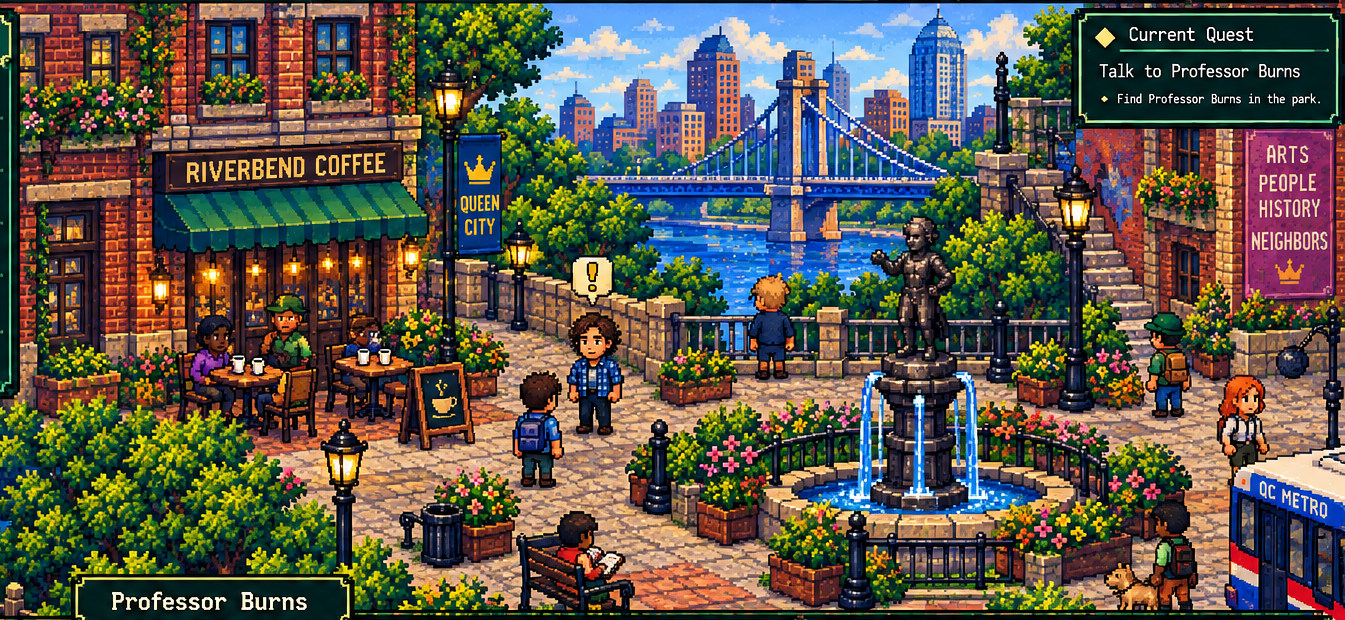
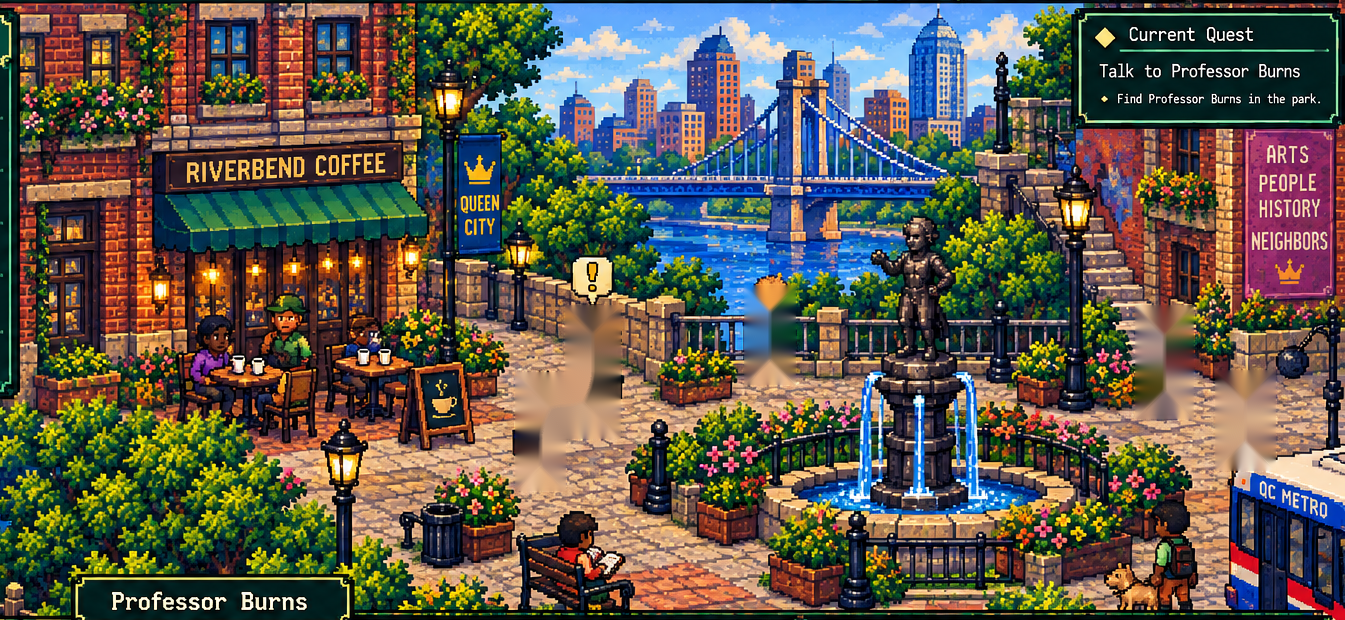
Add files via upload

Changed region(s): [[0.8431, 0.4903, 0.968, 0.7661], [0.3747, 0.4903, 0.4684, 0.7968], [0.5309, 0.4597, 0.5933, 0.6435]]

diff --git a/game.js b/game.js
@@ -1,55 +1,46 @@
 (()=>{
-const world=document.querySelector('#world'),player=document.querySelector('#player'),avatar=document.querySelector('#avatarCanvas'),marker=document.querySelector('#marker'),viewport=document.querySelector('#viewport'),dialogue=document.querySelector('#dialogue'),line=document.querySelector('#line'),choices=document.querySelector('#choices');
+const world=document.querySelector('#world'), entitiesEl=document.querySelector('#entities'), player=document.querySelector('#player'), avatar=document.querySelector('#avatarCanvas'), marker=document.querySelector('#marker'), viewport=document.querySelector('#viewport'), dialogue=document.querySelector('#dialogue'), line=document.querySelector('#line'), choices=document.querySelector('#choices');
 const ctx=avatar.getContext('2d'); ctx.imageSmoothingEnabled=false;
-const W=1345,H=620,CELL=8,COLS=Math.ceil(W/CELL),ROWS=Math.ceil(H/CELL);
+const W=1345,H=620,CELL=8,COLS=Math.ceil(W/CELL),ROWS=Math.ceil(H/CELL),FRAME_W=64,FRAME_H=88;
 let pos={x:548,y:486},raf=null,path=[],pending=null,frame=0,lastStep=0,dir='down',debug=false;
-let look=JSON.parse(localStorage.getItem('qc-avatar')||'null')||{skin:1,hair:1,hairColor:0,shirt:0};
 const spriteSheet=new Image(); spriteSheet.src='assets/player-sprites.png';
 const collisionImage=new Image(); collisionImage.src='assets/collision-mask.png';
 const collisionCanvas=document.createElement('canvas'); collisionCanvas.width=W; collisionCanvas.height=H; const collisionCtx=collisionCanvas.getContext('2d',{willReadFrequently:true});
-let collisionReady=false;
-collisionImage.onload=()=>{collisionCtx.drawImage(collisionImage,0,0,W,H);collisionReady=true;drawDebug()};
-spriteSheet.onload=()=>drawAvatar(false);
-// Dynamic NPC collision: feet positions in the flattened Queen City scene.
-const actors=[[590,405,25],[770,360,25],[1165,390,25],[1244,438,25],[1174,552,28],[579,555,34],[535,455,25],[365,392,24],[285,365,23],[220,365,23],[914,285,35]];
+let collisionReady=false; collisionImage.onload=()=>{collisionCtx.drawImage(collisionImage,0,0,W,H);collisionReady=true;drawDebug()}; spriteSheet.onload=()=>drawAvatar(false);
+// Actual world entities. x/y are FOOT positions, which drive collision and depth sorting.
+const npcDefs=[
+ {id:'burns',name:'Professor Burns',x:592,y:432,r:23,sheet:'assets/npc-burns.png',dir:'down',interactive:true},
+ {id:'maya',name:'Maya',x:770,y:382,r:22,sheet:'assets/npc-maya.png',dir:'down'},
+ {id:'eli',name:'Eli',x:1165,y:418,r:22,sheet:'assets/npc-eli.png',dir:'left'},
+ {id:'nora',name:'Nora',x:1245,y:468,r:22,sheet:'assets/npc-nora.png',dir:'down'},
+ {id:'sam',name:'Sam',x:540,y:430,r:22,sheet:'assets/npc-sam.png',dir:'right'}
+];
+const npcs=[];
+function createNPC(d){const el=document.createElement('button');el.className='entity npc';el.dataset.id=d.id;el.setAttribute('aria-label',d.name);const cv=document.createElement('canvas');cv.width=FRAME_W;cv.height=FRAME_H;el.appendChild(cv);entitiesEl.appendChild(el);const im=new Image();im.src=d.sheet;const n={...d,el,cv,ctx:cv.getContext('2d'),img:im,frame:0};n.ctx.imageSmoothingEnabled=false;im.onload=()=>drawNPC(n);el.addEventListener('pointerdown',e=>{e.stopPropagation();approachNPC(n)});npcs.push(n);positionEntity(n);return n}
+function drawFrame(c,im,dir,frame=0){if(!im.complete||!im.naturalWidth)return;const row={down:0,left:1,right:2,up:3}[dir]??0;c.clearRect(0,0,FRAME_W,FRAME_H);c.drawImage(im,frame*FRAME_W,row*FRAME_H,FRAME_W,FRAME_H,0,0,FRAME_W,FRAME_H)}
+function drawNPC(n){drawFrame(n.ctx,n.img,n.dir,n.frame)}
+function positionEntity(n){n.el.style.left=n.x+'px';n.el.style.top=n.y+'px';n.el.style.zIndex=String(100+Math.round(n.y));}
+npcDefs.forEach(createNPC);
 function maskAllows(x,y){if(!collisionReady)return false;if(x<0||y<0||x>=W||y>=H)return false;return collisionCtx.getImageData(Math.round(x),Math.round(y),1,1).data[0]>127}
-function isWalkable(x,y){if(!maskAllows(x,y))return false;for(const [ax,ay,r] of actors)if(Math.hypot(x-ax,y-ay)<r)return false;return true}
-function nearestWalkable(x,y){if(isWalkable(x,y))return{x,y};for(let r=8;r<260;r+=8){for(let a=0;a<Math.PI*2;a+=Math.PI/20){const q={x:x+Math.cos(a)*r,y:y+Math.sin(a)*r};if(isWalkable(q.x,q.y))return q}}return {...pos}}
+function occupiedByNPC(x,y,ignoreId=null){for(const n of npcs){if(n.id===ignoreId)continue;if(Math.hypot(x-n.x,y-n.y)<n.r+13)return true}return false}
+function isWalkable(x,y){return maskAllows(x,y)&&!occupiedByNPC(x,y)}
+function nearestWalkable(x,y){if(isWalkable(x,y))return{x,y};for(let r=8;r<280;r+=8)for(let a=0;a<Math.PI*2;a+=Math.PI/24){const q={x:x+Math.cos(a)*r,y:y+Math.sin(a)*r};if(isWalkable(q.x,q.y))return q}return {...pos}}
 function key(c,r){return c+','+r} function center(c,r){return{x:c*CELL+CELL/2,y:r*CELL+CELL/2}}
-function astar(start,end){
- const sc=Math.floor(start.x/CELL),sr=Math.floor(start.y/CELL),ec=Math.floor(end.x/CELL),er=Math.floor(end.y/CELL),open=[{c:sc,r:sr,g:0,f:0}],came=new Map(),g=new Map([[key(sc,sr),0]]),closed=new Set();
- const dirs=[[1,0],[-1,0],[0,1],[0,-1],[1,1],[1,-1],[-1,1],[-1,-1]];
- while(open.length){open.sort((a,b)=>a.f-b.f);const cur=open.shift(),ck=key(cur.c,cur.r);if(closed.has(ck))continue;closed.add(ck);if(cur.c===ec&&cur.r===er){let arr=[end],k=ck;while(came.has(k)){const [c,r]=k.split(',').map(Number);arr.push(center(c,r));k=came.get(k)}arr.reverse();arr.shift();return arr}
-  for(const [dc,dr] of dirs){const c=cur.c+dc,r=cur.r+dr;if(c<0||r<0||c>=COLS||r>=ROWS)continue;const p=center(c,r);if(!isWalkable(p.x,p.y))continue;
-   // No diagonal corner cutting through fences/planters.
-   if(dc&&dr){const p1=center(cur.c+dc,cur.r),p2=center(cur.c,cur.r+dr);if(!isWalkable(p1.x,p1.y)||!isWalkable(p2.x,p2.y))continue}
-   const nk=key(c,r),ng=cur.g+(dc&&dr?1.414:1);if(ng<(g.get(nk)??1e9)){g.set(nk,ng);came.set(nk,ck);open.push({c,r,g:ng,f:ng+Math.hypot(ec-c,er-r)})}
-  }
- }
- return[];
-}
-function moveTo(x,y,action){const end=nearestWalkable(Math.max(22,Math.min(W-22,x)),Math.max(315,Math.min(H-14,y)));path=astar(pos,end);pending=action;if(!path.length&&Math.hypot(end.x-pos.x)>8){pending=null;return}marker.style.left=end.x+'px';marker.style.top=end.y+'px';marker.style.display='block';player.classList.add('walking');if(!raf)raf=requestAnimationFrame(tick)}
-function tick(ts){if(!path.length){player.classList.remove('walking');marker.style.display='none';drawAvatar(false);const a=pending;pending=null;if(a)interact(a);raf=null;return}const t=path[0],dx=t.x-pos.x,dy=t.y-pos.y,d=Math.hypot(dx,dy);if(Math.abs(dx)>Math.abs(dy))dir=dx>0?'right':'left';else dir=dy>0?'down':'up';if(d<3){pos={x:t.x,y:t.y};path.shift()}else{const s=2.35;pos.x+=dx/d*s;pos.y+=dy/d*s}if(ts-lastStep>135){frame=(frame+1)%4;lastStep=ts;drawAvatar(true)}render();raf=requestAnimationFrame(tick)}
-function drawAvatar(walking=false){
- ctx.clearRect(0,0,64,80);
- if(!spriteSheet.complete||!spriteSheet.naturalWidth)return;
- const row={down:0,left:1,right:2,up:3}[dir]??0;
- const col=walking?(frame%5):0;
- ctx.drawImage(spriteSheet,col*64,row*80,64,80,0,0,64,80);
-}
-function render(){player.style.left=pos.x+'px';player.style.top=pos.y+'px'}
+function astar(start,end){const sc=Math.floor(start.x/CELL),sr=Math.floor(start.y/CELL),ec=Math.floor(end.x/CELL),er=Math.floor(end.y/CELL),open=[{c:sc,r:sr,g:0,f:0}],came=new Map(),g=new Map([[key(sc,sr),0]]),closed=new Set(),dirs=[[1,0],[-1,0],[0,1],[0,-1],[1,1],[1,-1],[-1,1],[-1,-1]];while(open.length){open.sort((a,b)=>a.f-b.f);const cur=open.shift(),ck=key(cur.c,cur.r);if(closed.has(ck))continue;closed.add(ck);if(cur.c===ec&&cur.r===er){let arr=[end],k=ck;while(came.has(k)){const [c,r]=k.split(',').map(Number);arr.push(center(c,r));k=came.get(k)}arr.reverse();arr.shift();return arr}for(const [dc,dr] of dirs){const c=cur.c+dc,r=cur.r+dr;if(c<0||r<0||c>=COLS||r>=ROWS)continue;const p=center(c,r);if(!isWalkable(p.x,p.y))continue;if(dc&&dr){const p1=center(cur.c+dc,cur.r),p2=center(cur.c,cur.r+dr);if(!isWalkable(p1.x,p1.y)||!isWalkable(p2.x,p2.y))continue}const nk=key(c,r),ng=cur.g+(dc&&dr?1.414:1);if(ng<(g.get(nk)??1e9)){g.set(nk,ng);came.set(nk,ck);open.push({c,r,g:ng,f:ng+Math.hypot(ec-c,er-r)})}}}return[]}
+function moveTo(x,y,action){const end=nearestWalkable(Math.max(22,Math.min(W-22,x)),Math.max(315,Math.min(H-14,y)));path=astar(pos,end);pending=action;if(!path.length&&Math.hypot(end.x-pos.x)>8){pending=null;return}marker.style.left=end.x+'px';marker.style.top=end.y+'px';marker.style.display='block';if(!raf)raf=requestAnimationFrame(tick)}
+function approachNPC(n){const spots=[{x:n.x-42,y:n.y},{x:n.x+42,y:n.y},{x:n.x,y:n.y+38},{x:n.x,y:n.y-38}].filter(q=>isWalkable(q.x,q.y)).sort((a,b)=>Math.hypot(a.x-pos.x,a.y-pos.y)-Math.hypot(b.x-pos.x,b.y-pos.y));if(!spots.length)return;moveTo(spots[0].x,spots[0].y,{type:'npc',id:n.id})}
+function tick(ts){if(!path.length){marker.style.display='none';drawAvatar(false);const a=pending;pending=null;if(a)interact(a);raf=null;return}const t=path[0],dx=t.x-pos.x,dy=t.y-pos.y,d=Math.hypot(dx,dy);if(Math.abs(dx)>Math.abs(dy))dir=dx>0?'right':'left';else dir=dy>0?'down':'up';if(d<3){pos={x:t.x,y:t.y};path.shift()}else{const s=2.35;pos.x+=dx/d*s;pos.y+=dy/d*s}if(ts-lastStep>130){frame=(frame+1)%5;lastStep=ts;drawAvatar(true)}render();raf=requestAnimationFrame(tick)}
+function drawAvatar(walking=false){drawFrame(ctx,spriteSheet,dir,walking?frame%5:0)}
+function render(){player.style.left=pos.x+'px';player.style.top=pos.y+'px';player.style.zIndex=String(100+Math.round(pos.y));}
 function coords(e){const r=world.getBoundingClientRect();return{x:(e.clientX-r.left)*W/r.width,y:(e.clientY-r.top)*H/r.height}}
-viewport.addEventListener('pointerdown',e=>{if(e.target.closest('nav,#quest,#dialogue,#panel,#debugCanvas'))return;const h=e.target.closest('.hotspot');if(h){const a=h.dataset.action;if(a==='burns')moveTo(548,450,a);else if(a==='coffee')moveTo(470,400,a);return}const p=coords(e);moveTo(p.x,p.y,null)});
+viewport.addEventListener('pointerdown',e=>{if(e.target.closest('nav,#quest,#dialogue,#panel,#debugCanvas,.npc'))return;const h=e.target.closest('.hotspot');if(h?.dataset.action==='coffee'){moveTo(470,400,{type:'coffee'});return}const p=coords(e);moveTo(p.x,p.y,null)});
 function showBurns(text){dialogue.classList.remove('hidden');document.body.classList.add('dialogue-open');line.textContent=text;choices.innerHTML='';QC_DATA.burns.choices.forEach(c=>{const b=document.createElement('button');b.textContent='▶ '+c.t;b.addEventListener('click',()=>{if(c.close)closeDialog();else{line.textContent=c.r;choices.innerHTML='';const back=document.createElement('button');back.textContent='◀ Ask something else';back.addEventListener('click',()=>showBurns(QC_DATA.burns.intro));choices.append(back)}});choices.append(b)})}
-function interact(a){if(a==='burns')showBurns(QC_DATA.burns.intro);if(a==='coffee')openPanel('Riverbend Coffee','<p>The smell of coffee drifts through the open door. A handwritten notice reads:</p><p><b>NEW HOURS BEGIN THIS WEEK</b></p><p>Several people inside seem to be talking about the change. This will become the first full sociology investigation.</p>')}
+function interact(a){if(a?.type==='npc'){const n=npcs.find(x=>x.id===a.id);if(!n)return;if(n.id==='burns')showBurns(QC_DATA.burns.intro);else openPanel(n.name,`<p>${n.name} is a Queen City resident. Their full dialogue and schedule can now be changed independently of the background artwork.</p>`)}if(a?.type==='coffee')openPanel('Riverbend Coffee','<p>The smell of coffee drifts through the open door. A handwritten notice reads:</p><p><b>NEW HOURS BEGIN THIS WEEK</b></p><p>Several people inside seem to be talking about the change. This will become the first full sociology investigation.</p>')}
 function closeDialog(){dialogue.classList.add('hidden');document.body.classList.remove('dialogue-open')} document.querySelector('#closeDialog').addEventListener('click',closeDialog);
-function avatarPanel(){return `<p><b>Your playable student</b></p><p>This build uses a real hand-drawn sprite sheet rather than JavaScript rectangles. The avatar now matches the scale and detail of Queen City's NPCs.</p><p><b>Customization:</b> the full layered character creator is the next asset pass; this build locks the approved blue-shirt/backpack student so movement and collision can be validated first.</p><button id="debugToggle" class="panelAction">${debug?'Hide':'Show'} collision debug overlay</button>`}
-function openPanel(title,html){document.querySelector('#panelTitle').textContent=title;document.querySelector('#panelBody').innerHTML=html;document.querySelector('#panel').classList.remove('hidden');if(title==='Character'){document.querySelector('#debugToggle').addEventListener('click',()=>{debug=!debug;drawDebug();document.querySelector('#debugToggle').textContent=(debug?'Hide':'Show')+' collision debug overlay'})}}
-document.querySelector('#closePanel').addEventListener('click',()=>document.querySelector('#panel').classList.add('hidden'));
-document.querySelectorAll('nav button').forEach(b=>b.addEventListener('click',()=>{const k=b.dataset.menu;if(k==='character')openPanel('Character',avatarPanel());else openPanel(k[0].toUpperCase()+k.slice(1),QC_DATA.panels[k]||'<p>Coming soon.</p>')}));
+function avatarPanel(){return `<p><b>Entity-sprite build</b></p><p>The playable student and mobile plaza NPCs are now independent sprites. Characters are depth-sorted by their foot position, so the player can pass visually in front of or behind them without occupying the same space.</p><p>The player's sprite frames also have transparent headroom, fixing the flat/clipped hairline.</p><button id="debugToggle" class="panelAction">${debug?'Hide':'Show'} collision debug overlay</button>`}
+function openPanel(title,html){document.querySelector('#panelTitle').textContent=title;document.querySelector('#panelBody').innerHTML=html;document.querySelector('#panel').classList.remove('hidden');if(title==='Character')document.querySelector('#debugToggle').addEventListener('click',()=>{debug=!debug;drawDebug();document.querySelector('#debugToggle').textContent=(debug?'Hide':'Show')+' collision debug overlay'})}
+document.querySelector('#closePanel').addEventListener('click',()=>document.querySelector('#panel').classList.add('hidden'));document.querySelectorAll('nav button').forEach(b=>b.addEventListener('click',()=>{const k=b.dataset.menu;if(k==='character')openPanel('Character',avatarPanel());else openPanel(k[0].toUpperCase()+k.slice(1),QC_DATA.panels[k]||'<p>Coming soon.</p>')}));
 window.addEventListener('keydown',e=>{if((e.key==='D'||e.key==='d')&&e.shiftKey){debug=!debug;drawDebug();return}if(!dialogue.classList.contains('hidden')||!document.querySelector('#panel').classList.contains('hidden'))return;let dx=0,dy=0;if(e.key==='ArrowLeft'||e.key==='a')dx=-48;if(e.key==='ArrowRight'||e.key==='d')dx=48;if(e.key==='ArrowUp'||e.key==='w')dy=-48;if(e.key==='ArrowDown'||e.key==='s')dy=48;if(dx||dy){e.preventDefault();moveTo(pos.x+dx,pos.y+dy,null)}});
-// Development-only collision overlay: Shift+D toggles it. Students never need it.
-const dbg=document.createElement('canvas');dbg.id='debugCanvas';dbg.width=W;dbg.height=H;world.appendChild(dbg);const dctx=dbg.getContext('2d');
-function drawDebug(){dbg.style.display=debug?'block':'none';if(!debug||!collisionReady)return;dctx.clearRect(0,0,W,H);dctx.fillStyle='rgba(255,30,30,.26)';for(let y=0;y<H;y+=CELL)for(let x=0;x<W;x+=CELL)if(!isWalkable(x+CELL/2,y+CELL/2))dctx.fillRect(x,y,CELL,CELL);dctx.fillStyle='rgba(20,220,90,.14)';for(let y=0;y<H;y+=CELL)for(let x=0;x<W;x+=CELL)if(isWalkable(x+CELL/2,y+CELL/2))dctx.fillRect(x,y,CELL,CELL)}
-drawAvatar(false);render();drawDebug();
+const dbg=document.createElement('canvas');dbg.id='debugCanvas';dbg.width=W;dbg.height=H;world.appendChild(dbg);const dctx=dbg.getContext('2d');function drawDebug(){dbg.style.display=debug?'block':'none';if(!debug||!collisionReady)return;dctx.clearRect(0,0,W,H);for(let y=0;y<H;y+=CELL)for(let x=0;x<W;x+=CELL){dctx.fillStyle=isWalkable(x+4,y+4)?'rgba(20,220,90,.12)':'rgba(255,30,30,.24)';dctx.fillRect(x,y,CELL,CELL)}}
+render();drawDebug();
 })();

diff --git a/index.html b/index.html
@@ -1,7 +1,7 @@
 <!doctype html><html lang="en"><head><meta charset="utf-8"><meta name="viewport" content="width=device-width,initial-scale=1,viewport-fit=cover"><title>Social Life: Queen City</title><link rel="stylesheet" href="style.css"></head><body>
 <div id="game">
 <header><div class="brand">SOCIAL LIFE<span>A SOCIOLOGY RPG</span></div><div class="chapter"><b>Chapter 1: Seeing Society</b><span>Foundations · Perspectives · Research Methods</span></div><div class="place"><b>QUEEN CITY</b><span>A city of neighborhoods</span></div><div class="day"><b>Day 1</b><span>☀ Morning</span></div></header>
-<main id="viewport" aria-label="Queen City game world"><div id="world"><img src="assets/queen-city-world.png" alt="Pixel-art Queen City riverfront district" draggable="false"><div id="player" aria-label="Player character"><canvas id="avatarCanvas" width="64" height="80"></canvas></div><button class="hotspot burns" data-action="burns" aria-label="Talk to Professor Burns"></button><button class="hotspot coffee" data-action="coffee" aria-label="Enter Riverbend Coffee"></button><div id="marker"></div></div>
+<main id="viewport" aria-label="Queen City game world"><div id="world"><img src="assets/queen-city-world.png" alt="Pixel-art Queen City riverfront district" draggable="false"><div id="entities"></div><div id="player" class="entity player-entity" aria-label="Player character"><canvas id="avatarCanvas" width="64" height="88"></canvas></div><button class="hotspot coffee" data-action="coffee" aria-label="Enter Riverbend Coffee"></button><div id="marker"></div></div>
 <nav><button data-menu="home">⌂<span>Home</span></button><button data-menu="map">◆<span>Map</span></button><button data-menu="journal">▣<span>Journal</span></button><button data-menu="people">♟<span>People</span></button><button data-menu="concepts">●<span>Concepts</span></button><button data-menu="character">★<span>Character</span></button></nav>
 <aside id="quest"><small>CURRENT QUEST</small><b>Meet Professor Burns</b><span>Find Professor Burns near the riverfront plaza.</span></aside>
 </main>

diff --git a/style.css b/style.css
@@ -11,3 +11,10 @@
 /* v4: real sprite-sheet avatar */
 #player{width:64px;height:80px;transform:translate(-50%,-100%);z-index:8;filter:drop-shadow(0 3px 1px rgba(0,0,0,.3))}
 #avatarCanvas{width:64px;height:80px;display:block;image-rendering:pixelated}
+/* v5: true entity sprites + y-sorted character layer */
+#entities{position:absolute;inset:0;pointer-events:none}
+.entity{position:absolute;width:64px;height:88px;transform:translate(-50%,-100%);image-rendering:pixelated;filter:drop-shadow(0 3px 1px rgba(0,0,0,.28));}
+.entity canvas{width:64px;height:88px;display:block;image-rendering:pixelated}
+#player.entity{width:64px;height:88px;transform:translate(-50%,-100%);pointer-events:none}
+.npc{padding:0;border:0;background:transparent;cursor:pointer;pointer-events:auto}
+.npc:focus-visible{outline:2px solid var(--gold);outline-offset:2px;border-radius:50%}

diff --git a/README.md b/README.md
@@ -1,21 +1,17 @@
-# Queen City Sprite + Collision Mask v4
+# Social Life: Queen City — Entity Sprites v5
 
-This build replaces the procedural block avatar with a real pixel-art sprite sheet and replaces shape-based collision with a raster collision mask aligned to the Queen City world image.
+This build replaces the standing plaza characters with independent sprite entities and fixes the player's clipped head by adding transparent headroom to every animation frame.
 
-## Test first
-1. Walk the student around the fountain. The feet should not cross the fountain/flower/railing footprint.
-2. Click inside Riverbend Coffee, the river, fence, planters, café tables, bus, or upper buildings. The pathfinder should stop at/reroute to nearby walkable pavement.
-3. Walk toward baked-in NPCs. They are dynamic collision obstacles.
-4. Press Shift+D (or Character > Show collision debug overlay) to inspect the hidden navigation mask. Green = walkable; red = blocked.
+## What changed
+- Player sprite: 64×88 frames with 8 px transparent headroom; no flat/cropped hairline.
+- Professor Burns and four standing plaza residents are independent sprite entities.
+- Y-sorting uses each character's foot position: walk above someone and they render in front; walk below them and the player renders in front.
+- NPCs dynamically block movement, so the player cannot occupy the same standing space.
+- Clicking an NPC routes the player to a valid adjacent position rather than onto the NPC.
+- Static scenery still uses the collision mask.
+- Shift+D toggles the collision debug overlay.
 
-## Files
-- index.html
-- style.css
-- game.js
-- data.js
-- assets/queen-city-world.png
-- assets/professor-burns.png
-- assets/player-sprites.png
-- assets/collision-mask.png
+## Important development note
+The seated café patrons and bench reader remain part of the environmental art in this pass; they are treated as static scenery/collision. The mobile/standing cast is now entity-based, which establishes the reusable architecture for schedules, moving NPCs, recurring characters, and later scenarios.
 
-Upload the complete contents to the repository root, preserving the assets folder.
+Upload the contents of this folder to the root of the GitHub Pages repository, preserving the `assets/` folder.
